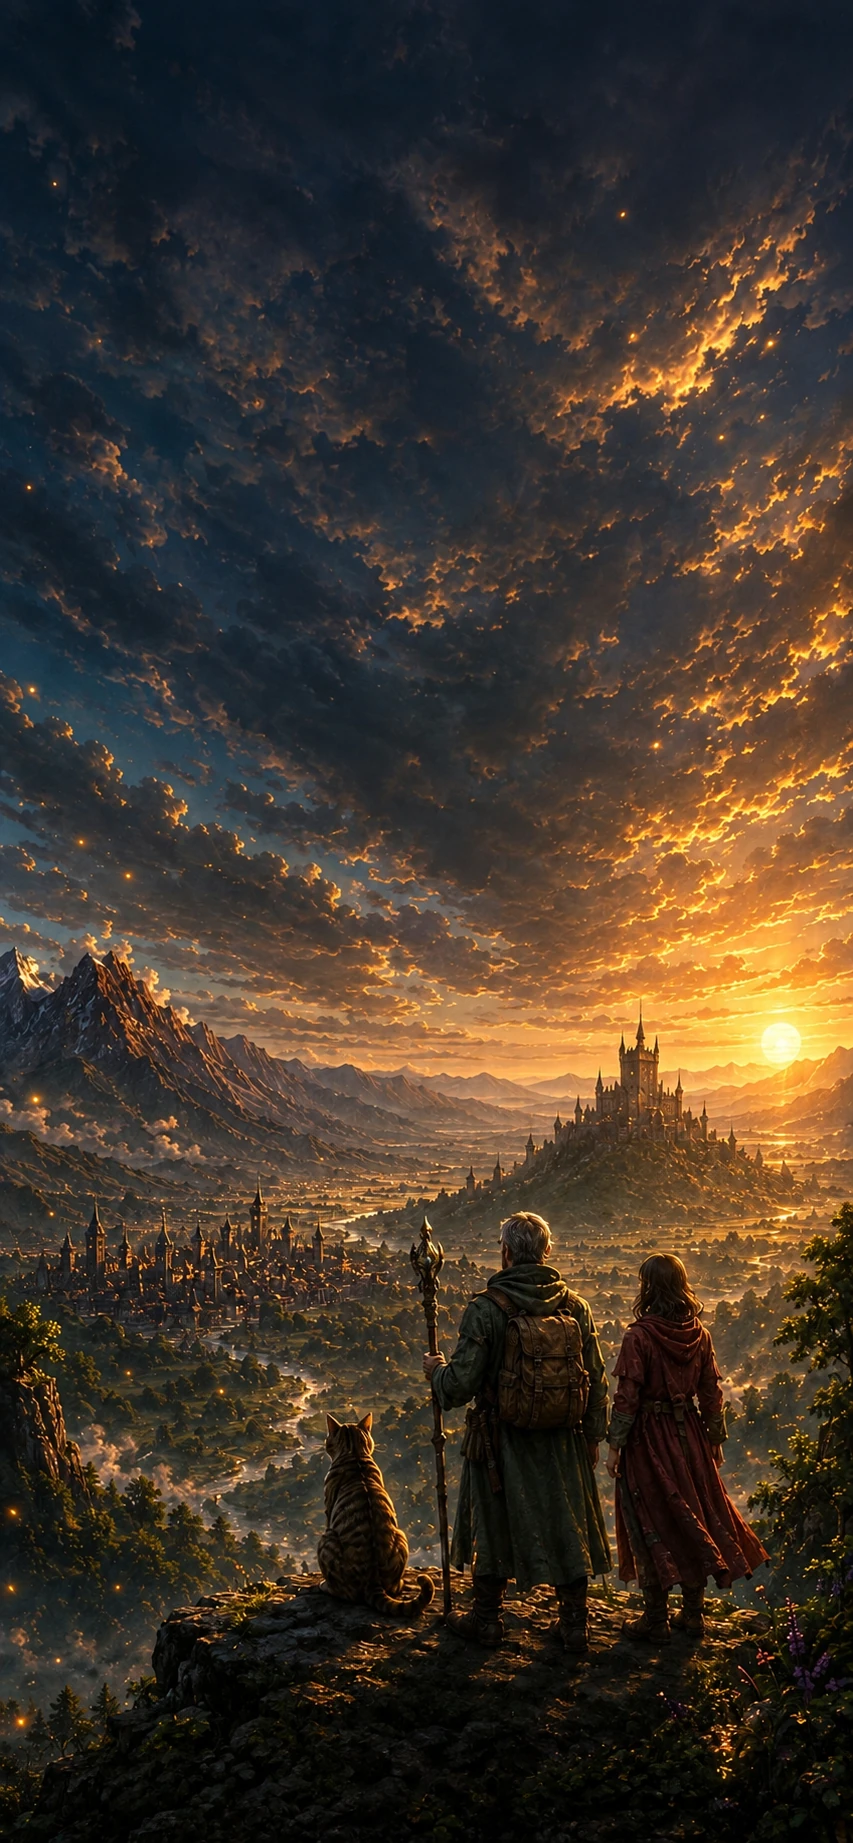
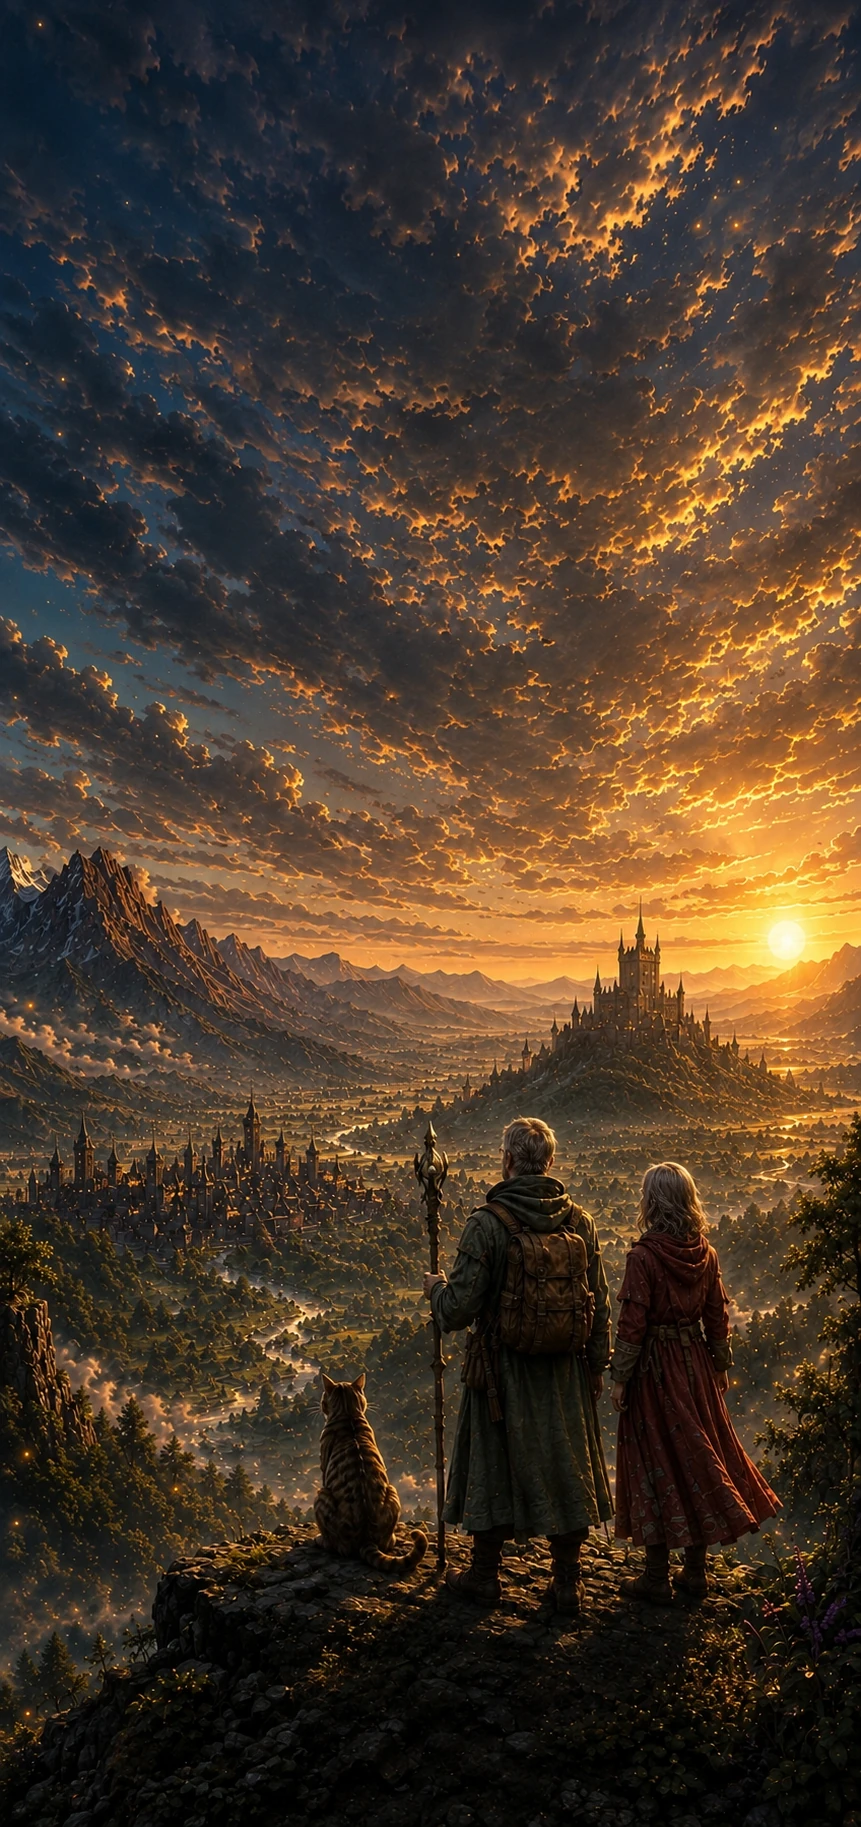
背景の絵を差し替え、画面に全体を収める
- 背景を新しい絵（861x1827）にした。枠の比率も絵に合わせたので、
  引き伸ばさずそのまま敷ける。夕日の位置も絵に合わせて動かした
- 絵の全体が画面に入るように収め、どの辺も切らないようにした。
  高さは 100lvh を基準にしたので、アドレスバーが出ていても縮まず、
  URL 欄の下まで絵が続く。比率の違う端末で出る余白は、
  これまでどおり背面のぼかした絵で埋める
- 幅の広い画面だけ別扱いにしていた指定は、同じものになったので一本にした
- 画面の高さを JS から渡していた処理は使わなくなったので外した
- 絵が変わったので Service Worker の版を上げた

Claude-Session: https://claude.ai/code/session_01D8zuFW998dDQCQ77PYe3AX

diff --git a/assets/css/hero.css b/assets/css/hero.css
@@ -8,15 +8,17 @@
 :root {
   --ink: #05070c;
   --gold: #e7c98a;
-  --app-h: 100vh;
+  /* URL 欄の下まで含めた、画面いっぱいの高さ。
+     dvh と違い、アドレスバーの出入りで縮まない */
+  --full-h: 100vh;
 
-  --ratio: 0.4626;           /* 853 / 1844 */
+  --ratio: 0.4713;           /* 861 / 1827。背景の絵そのものの比率 */
 
   /* 演出のイージング。ゆっくり着地させる */
   --ease: cubic-bezier(0.16, 1, 0.3, 1);
 }
 
-@supports (height: 100dvh) { :root { --app-h: 100dvh; } }
+@supports (height: 100lvh) { :root { --full-h: 100lvh; } }
 
 * { box-sizing: border-box; }
 
@@ -56,36 +58,26 @@ html, body {
 
 .viewport {
   position: fixed;
-  inset: 0;
-  overflow: hidden;
-  z-index: 1;
-}
-
-/* 画面の幅いっぱいに置く。縦は絵の比率のまま伸び、
-   はみ出した分は下から切れる（文字は必ず全部入る） */
-.stage {
-  position: absolute;
   top: 0;
   left: 0;
   width: 100vw;
-  height: calc(100vw / var(--ratio));
+  height: var(--full-h);       /* URL 欄の下まで敷く */
+  overflow: hidden;
+  z-index: 1;
+  display: flex;
+  align-items: center;
+  justify-content: center;
+}
+
+/* 絵の全体が画面に入るように収める。どの辺も切らない。
+   端末の比率が絵とほぼ同じなので、ふだんは画面いっぱいに見える */
+.stage {
+  position: relative;
+  width: min(100vw, calc(var(--full-h) * var(--ratio)));
+  height: min(calc(100vw / var(--ratio)), var(--full-h));
   overflow: hidden;
   isolation: isolate;
   background: var(--ink);
-}
-
-/* 横長の画面（タブレットや PC）では、絵の全体が入るように収める */
-@media (min-aspect-ratio: 5/8) {
-  .viewport {
-    display: flex;
-    align-items: center;
-    justify-content: center;
-  }
-  .stage {
-    position: relative;
-    width: min(100vw, calc(var(--app-h) * var(--ratio)));
-    height: min(calc(100vw / var(--ratio)), var(--app-h));
-  }
 }
 
 /* ============================================================
@@ -136,7 +128,7 @@ html, body {
 
 /* 地平線の夕日。ゆっくり明るさが変わる */
 .scene__sun {
-  background: radial-gradient(22% 9% at 93.5% 60.5%,
+  background: radial-gradient(22% 9% at 90.9% 51.2%,
       rgba(255, 214, 148, 0.26), rgba(255, 176, 92, 0.10) 45%, transparent 76%);
   mix-blend-mode: screen;
   animation: sun-breath 23s ease-in-out infinite;
@@ -273,7 +265,10 @@ html, body {
 .gate {
   display: none;
   position: fixed;
-  inset: 0;
+  top: 0;
+  left: 0;
+  width: 100vw;
+  height: var(--full-h);
   z-index: 40;
   background: var(--ink, #05070c);
   place-items: center;
@@ -443,7 +438,10 @@ html, body {
    ============================================================ */
 .veil {
   position: fixed;
-  inset: 0;
+  top: 0;
+  left: 0;
+  width: 100vw;
+  height: var(--full-h);
   z-index: 12;
   pointer-events: none;                 /* 見るだけの幕。操作は妨げない */
   opacity: 0;
@@ -548,7 +546,10 @@ html, body {
    ------------------------------------------------------------ */
 .portal {
   position: fixed;
-  inset: 0;
+  top: 0;
+  left: 0;
+  width: 100vw;
+  height: var(--full-h);
   z-index: 45;
   display: grid;
   place-items: center;

diff --git a/assets/js/hero.js b/assets/js/hero.js
@@ -50,18 +50,6 @@
   var SETTLE_AT = last.at + last.for + 0.2;
 
   // ---------------------------------------------------------
-  // 画面高さ（iOS のアドレスバー分を含む実寸）を CSS に渡す
-  // ---------------------------------------------------------
-  function syncViewport() {
-    document.documentElement.style.setProperty('--app-h', window.innerHeight + 'px');
-  }
-  syncViewport();
-  window.addEventListener('resize', syncViewport, { passive: true });
-  window.addEventListener('orientationchange', function () {
-    setTimeout(syncViewport, 240);
-  }, { passive: true });
-
-  // ---------------------------------------------------------
   // 段取りを CSS 変数として各要素に書き込む
   // ---------------------------------------------------------
   function schedule() {

diff --git a/sw.js b/sw.js
@@ -1,7 +1,7 @@
 /* 仙台への冒険 ティザー ─ オフラインでも起動画面として成立させるための最小構成 */
 'use strict';
 
-var CACHE = 'future-fantasy-v6';
+var CACHE = 'future-fantasy-v7';
 
 var ASSETS = [
   './',

diff --git a/README.md b/README.md
@@ -154,7 +154,7 @@ python3 tools/make_hero.py
 
 ## 配置の考え方
 
-完成形（`assets/img/parts/hero-composite.png`、853 x 1844）と同じ縦横比の「枠」を作り、
+背景の絵（`assets/img/parts/scene-base.png`、861 x 1827）と同じ縦横比の「枠」を作り、
 その中に **%座標** で部品を置いています。数値は完成形から実測したものです。
 
 | 部品 | 左 | 上 | 幅 |
@@ -165,10 +165,11 @@ python3 tools/make_hero.py
 | 日付 | 31.54% | 47.40% | 37.40% |
 | 英文 | 22.75% | 53.69% | 54.51% |
 
-**枠の幅は画面の幅にそろえます。** 縦は絵の比率のまま伸び、画面からはみ出した分は
-下から切れます。文字はすべて上半分に入っているので、縦の短い端末でも欠けません。
-横長の画面（縦横比 0.625 以上のタブレットや PC）では、絵の全体が入るように収め、
-背面にぼかした同じ絵を敷いて余白を埋めます。
+**絵の全体が画面に入るように収めます。** どの辺も切りません。
+高さは `100lvh`（使えない環境では `100vh`）を基準にしているので、
+iOS のアドレスバーが出ていても縮まず、URL 欄の下まで絵が続きます。
+絵の比率（0.4713）は最近のスマートフォンとほぼ同じなので、ふだんは画面いっぱいに見えます。
+比率の違う端末で出る余白は、背面にぼかした同じ絵を敷いて埋めています。
 
 ## 素材について
 
